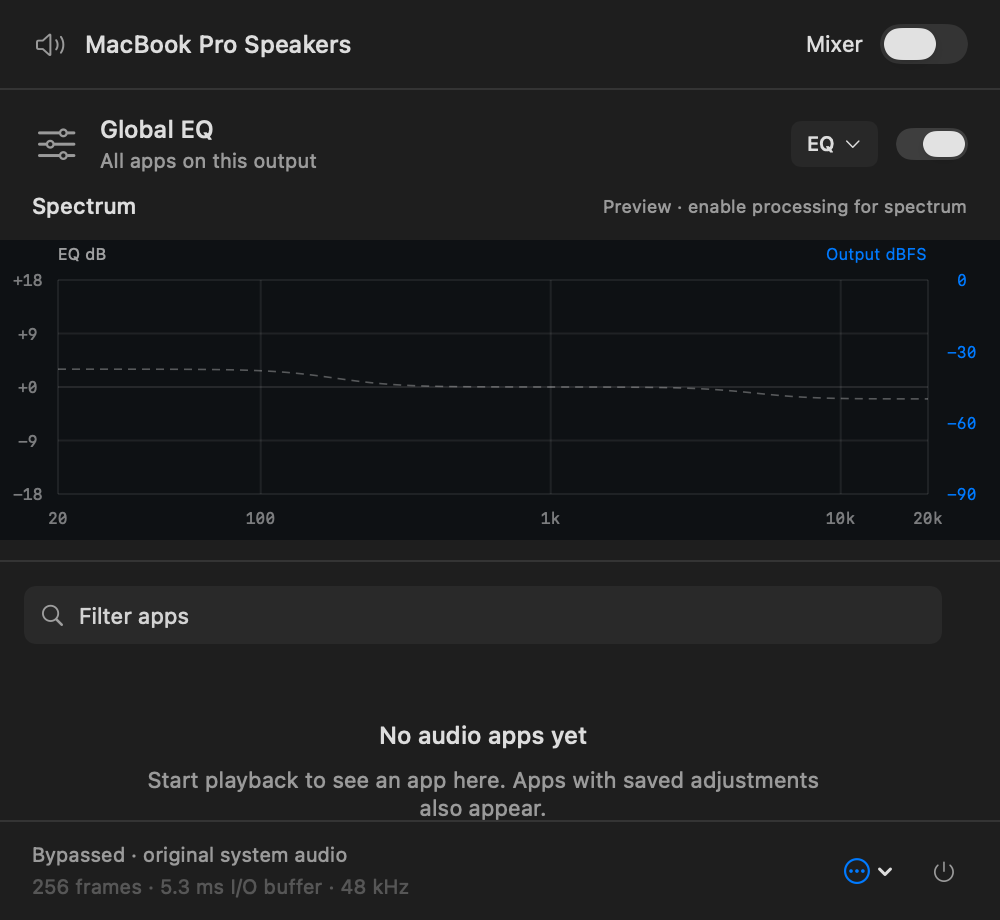
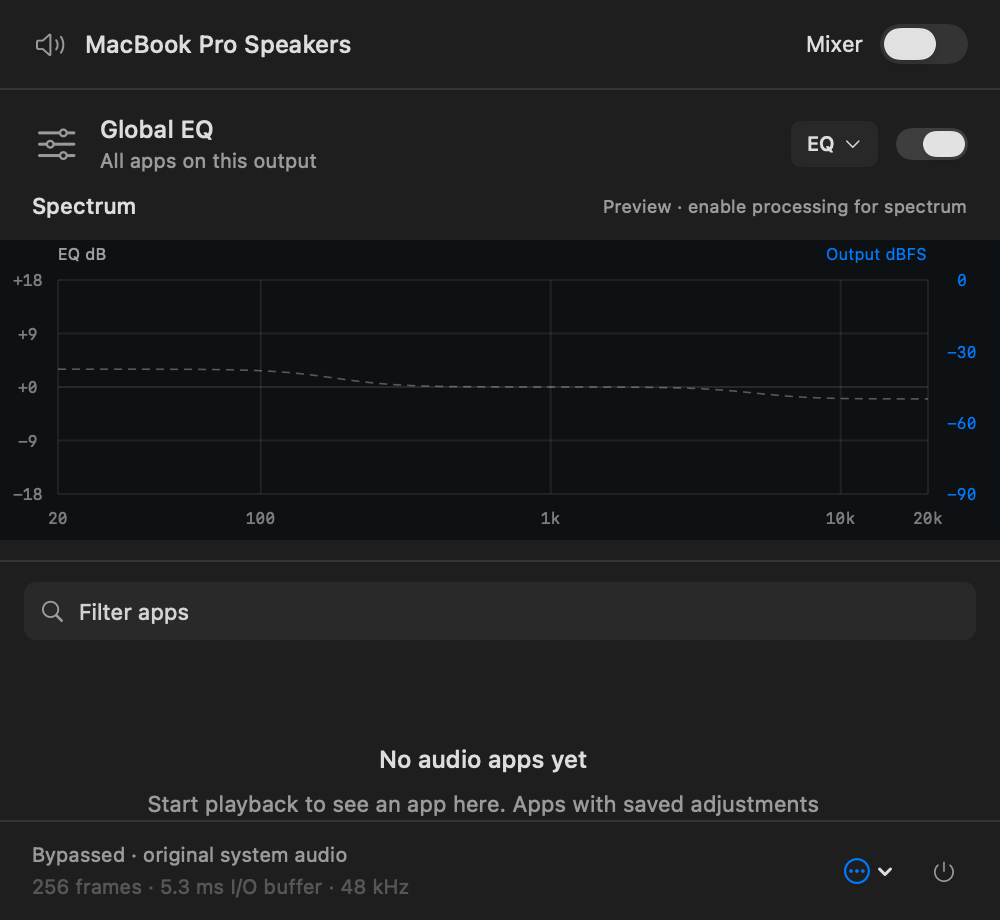
Pin app search and prepare RC.4 with simulated spectrum screenshots

Changed region(s): [[0.155, 0.7913, 0.837, 0.913], [0.031, 0.6391, 0.186, 0.7]]

diff --git a/AppMixer/App/Sources/ScreenshotRenderer.swift b/AppMixer/App/Sources/ScreenshotRenderer.swift
@@ -69,29 +69,63 @@ struct ScreenshotRenderer {
         var musicEQ = MixerSettings()
         musicEQ.volume = 0.65
         model.settings = [zoom.id: zoomEQ, music.id: musicEQ]
-        model.snapshot.active = [zoom.id, music.id]
-        // Explicit illustrative meter levels, not captured audio.
-        for (id, peak) in [(zoom.id, Float(0.08)), (music.id, Float(0.22))] {
-            var level = AudioTelemetry()
-            level.peak = peak
-            model.telemetry.apps[id] = level
+        // Deterministic illustrative spectra: never capture audio or claim these
+        // fixtures are live. Apply the displayed EQ/volume to each sample shape.
+        func simulateSpectra() {
+            var combined = AudioTelemetry()
+            combined.simulated = true
+            combined.spectrum = [Float](repeating: -90, count: 96)
+            model.snapshot.active = Set(model.snapshot.apps.map(\.id))
+            for app in model.snapshot.apps {
+                var value = AudioTelemetry()
+                value.simulated = true
+                let settings = model.value(app.id)
+                for index in 0..<96 {
+                    let hz = 20 * pow(1000, (Double(index) + 0.5) / 96)
+                    func bump(_ center: Double, _ width: Double) -> Double {
+                        exp(-0.5 * pow(log2(hz / center) / width, 2))
+                    }
+                    let shape: Double
+                    if app.id == music.id {
+                        shape = -56 + 27 * bump(85, 0.9) + 20 * bump(900, 1.5) + 12 * bump(6500, 1)
+                    } else if app.id == zoom.id {
+                        shape = -72 + 35 * bump(550, 1.2) + 22 * bump(2400, 0.8)
+                    } else {
+                        shape = -65 + 22 * bump(200, 0.8) + 28 * bump(3300, 1)
+                    }
+                    let ripple = 3 * sin(Double(index) * 1.7) + 2 * cos(Double(index) * 0.63)
+                    let eq =
+                        settings.responseDB(at: hz, sampleRate: 48000)
+                        + model.globalEQ.responseDB(at: hz, sampleRate: 48000)
+                    let db = Float(max(-90, min(0, shape + ripple + eq + 20 * log10(settings.volume))))
+                    value.spectrum.append(db)
+                    combined.spectrum[index] = max(combined.spectrum[index], db)
+                }
+                value.peak = app.id == music.id ? 0.22 : (app.id == zoom.id ? 0.08 : 0.13)
+                combined.peak = max(combined.peak, value.peak)
+                combined.apps[app.id] = value
+            }
+            model.telemetry = combined
         }
+        simulateSpectra()
         host.rootView = MixerView(model: model).environment(\.controlActiveState, .active).id("mixer")
         try capture("mixer", maximum: 720)
         model.snapshot.apps = [zoom]
         model.selectedEQ = zoom.id
-        // Deliberately show the response preview, not fabricated live spectrum.
-        model.enabled = false
+        simulateSpectra()
         host.rootView = MixerView(model: model).environment(\.controlActiveState, .active).id("equalizer")
         try capture("equalizer", maximum: 720)
         model.globalEQ.bands = EQPreset.warm.bands
         model.selectedEQ = MixerModel.globalEQID
+        simulateSpectra()
         host.rootView = MixerView(model: model).environment(\.controlActiveState, .active).id("global-equalizer")
         try capture("global-equalizer", maximum: 720)
         model.snapshot.apps = (0..<15).map {
             AudioApplication(id: "sample-\($0)", name: "Sample app \($0 + 1)", playing: true)
         }
         model.selectedEQ = nil
+        model.enabled = false
+        model.telemetry = AudioTelemetry()
         let longSize = layout()
         guard abs(longSize.height - 720) <= 1 else { throw NSError(domain: "QEQ layout", code: 2) }
         print("long list capped: \(Int(longSize.height)) pt")

diff --git a/AppMixer/App/Sources/ParametricEQView.swift b/AppMixer/App/Sources/ParametricEQView.swift
@@ -44,14 +44,15 @@ struct ParametricEQView: View {
                     Spacer()
                     if processing && !telemetry.spectrum.isEmpty {
                         Circle().fill(Color.accentColor).frame(width: 5, height: 5)
-                        Text(isGlobal ? "App spectra" : "Live output").font(.system(size: 9)).foregroundStyle(
-                            .secondary
-                        )
-                        .help(
-                            isGlobal
-                                ? "Strongest app in each frequency bin; not a measurement of the summed system output."
-                                : "App output after app EQ, Global EQ, volume, and limiting. The curve shows this app's EQ only."
-                        )
+                        Text(telemetry.simulated ? "Simulated spectrum" : (isGlobal ? "App spectra" : "Live output"))
+                            .font(.system(size: 9)).foregroundStyle(
+                                .secondary
+                            )
+                            .help(
+                                isGlobal
+                                    ? "Strongest app in each frequency bin; not a measurement of the summed system output."
+                                    : "App output after app EQ, Global EQ, volume, and limiting. The curve shows this app's EQ only."
+                            )
                         if compact && telemetry.limitingDB > 0.1 {
                             Text(String(format: "Limiting −%.1f dB", telemetry.limitingDB))
                                 .font(.system(size: 9, design: .monospaced)).foregroundStyle(.orange)

diff --git a/AppMixer/App/Sources/MixerView.swift b/AppMixer/App/Sources/MixerView.swift
@@ -46,6 +46,7 @@ struct MixerView: View {
                 }
                 globalSection
                 Divider()
+                searchField.padding(.horizontal, 12).padding(.vertical, 10)
             }.trackHeight("header")
             ScrollView {
                 VStack(spacing: 8) {
@@ -57,7 +58,6 @@ struct MixerView: View {
                         .padding(.horizontal, 4).padding(.vertical, 10)
                         Divider()
                     }
-                    searchField
                     if apps.isEmpty {
                         VStack(spacing: 8) {
                             Text(search.isEmpty ? "No audio apps yet" : "No matching apps").font(

diff --git a/AppMixer/Sources/AppMixerAppSupport/SpectrumAnalyzer.swift b/AppMixer/Sources/AppMixerAppSupport/SpectrumAnalyzer.swift
@@ -7,6 +7,7 @@ public struct AudioTelemetry: Sendable {
     public var peak: Float = 0
     public var limitingDB: Float = 0
     public var apps: [String: AudioTelemetry] = [:]
+    public var simulated = false
     public init() {}
     /// Strongest app in each bin, not a phase-aligned measurement of the final mix.
     static func envelope(_ values: [Self]) -> Self {

diff --git a/docs/DEVELOPMENT.md b/docs/DEVELOPMENT.md
@@ -29,7 +29,7 @@ Permission is first requested when processing or live spectrum needs an app audi
 - Mono/stereo Float32 output devices with a single output stream are supported. Multichannel/multistream devices are rejected explicitly. This version processes the **current system output**; apps explicitly routed to a different output should be set to the system output first.
 - EQ: five configurable bands, 20 Hz–20 kHz (limited to 45% of sample rate), ±18 dB. Bell, low/high shelf, and 12 dB/octave low/high cut filters. Bell/cut Q spans 0.1–10; shelf slope spans 0.1–1. Each band can be bypassed. Boosts raise their selected frequencies without fixed full-band attenuation. Stereo-linked sample-peak protection reduces gain only when output would exceed full scale, then releases over 50 ms; it adds no lookahead or playback buffering. The live “Limiting” indicator shows reduction. Lower app volume when more headroom is needed. This is sample-peak protection, not an oversampled true-peak limiter. Volume is 0–100%.
 - Drag numbered graph handles to change frequency/gain. Click a band, enter exact frequency/gain/Q values, or use the width slider. White is the filter response (EQ dB, before app volume and peak protection); a dashed line indicates a preview while bypassed. The system accent color fills the live processed-output spectrum (−90…0 dBFS). Double-click a numbered handle to restore that band’s defaults.
-- Global EQ spans the popup width and stays above the scrolling search and app controls. Its response line is subdued. Collapsed app rows show live output-peak meters (−60…0 dBFS), after volume, mute, and both EQs. Global bypass releases the taps, so meters show unavailable rather than fabricated activity.
+- Global EQ spans the popup width and stays above the pinned search field and scrolling app controls. Its response line is subdued. Collapsed app rows show live output-peak meters (−60…0 dBFS), after volume, mute, and both EQs. Global bypass releases the taps, so meters show unavailable rather than fabricated activity.
 - The minimum band gain is −18 dB, not silence: it leaves about 13% amplitude in the affected range. A logarithmic spectrum still shows that remaining energy; the controls display this amplitude relationship when cutting.
 - The optional 16,384-sample Hann-window spectrum uses Accelerate off the audio thread at ~15 fps. Atomic snapshots never delay playback. At 48 kHz the analysis window covers about 341 ms of recent sound; this affects visual settling, not playback latency. Frequency bins use interpolated boundaries, and there is no extra peak hold to conceal EQ cuts or mute. Both the EQ-gain (left) and output-dBFS (right) scales are labeled; the frequency axis is logarithmic. Stereo powers are combined without phase cancellation. While the popup is open and the main mixer is enabled, playing apps acquire neutral routes as needed for analysis, even with flat EQ. Closing it releases analysis-only routes. The Global EQ graph overlays up to six app spectra with matching labels; its filled envelope is the strongest app in each frequency bin, not a phase-aligned measurement of the final mixed output. Per-app spectra include both app and global processing. Global bypass always releases all routes.
 - Chrome/Electron helper clients resolve to their outer application’s name, icon, and bundle ID. Legacy helper-key settings migrate to that app; existing parent settings take precedence.
@@ -119,6 +119,6 @@ python3 AppMixer/scripts/screenshots.py --check
 ./AppMixer/scripts/generate_appicon.sh
 ```
 
-The screenshot command renders the real SwiftUI views with labeled fixture settings in an offscreen app window. It never starts the audio engine, reads saved settings, or captures the screen. It also checks empty, populated, app/global EQ, long-list, smaller-screen and removal layouts. The source and image fingerprints in `docs/media/screenshots.json` prevent stale README screenshots from shipping. CI renders from its just-built app using `--skip-build`; normal preparation builds first. Screenshot fixtures are illustrative; the EQ view deliberately shows a response preview rather than fabricated live audio.
+The screenshot command renders the real SwiftUI views with labeled fixture settings in an offscreen app window. It never starts the audio engine, reads saved settings, or captures the screen. It also checks empty, populated, app/global EQ, long-list, smaller-screen and removal layouts. The source and image fingerprints in `docs/media/screenshots.json` prevent stale README screenshots from shipping. CI renders from its just-built app using `--skip-build`; normal preparation builds first. Screenshot fixtures use deterministic simulated spectra, labeled in the interface and README. No live audio is captured; the displayed sample EQ is applied to the fixture shapes.
 
 The icon was created with the built-in image-generation tool. The source asset and final prompt are in `AppMixer/Branding/`. The generator script only creates the standard macOS icon sizes from that source. Internal module names and `local.AppMixer` bundle identity are retained so existing settings remain available.

diff --git a/AppMixer/ReleaseNotes/0.1.0-rc.4.md b/AppMixer/ReleaseNotes/0.1.0-rc.4.md
@@ -1,0 +1,14 @@
+**QEQ — Quick EQ. Per-app mixer and equalizer for macOS.**
+
+- Global EQ shares each app's realtime callback, with independent bypass and no added playback buffer.
+- A full-width global spectrum stays visible above a pinned search field. App rows scroll below it.
+- Layered app spectra, collapsed-row output meters, and prominent quick-mute buttons show which apps are making sound.
+- Opening the panel starts analysis even with flat EQ. Global bypass releases all audio taps.
+- Improved bass-frequency resolution and removed spectrum peak hold that concealed cuts. EQ gain and output-level axes are labeled separately.
+- Eleven presets, system accent color, double-click band reset, a subtler global response line, and a power-icon Quit button.
+- Gain controls explain that −18 dB leaves about 13% amplitude; the clipping-protection indicator appears only while limiting.
+- README screenshots now include clearly labeled simulated spectra. Release preparation refreshes screenshots; CI checks their source fingerprints and the release workflow renders and attaches a screenshot ZIP.
+
+macOS 14.4+, Apple Silicon and Intel. App and DMG are Developer ID signed, notarized, and stapled.
+
+Quit QEQ before replacing the app. Saved app/global EQ settings are retained; each launch starts bypassed. Enable Mixer for live analysis and processing. The 16,384-sample spectrum window covers about 341 ms at 48 kHz; it affects visual settling only, not playback buffering. The global spectrum overlays app spectra, not a phase-aligned measurement of the final system mix. Use the footer menu's Copy diagnostics if a route fails.

diff --git a/README.md b/README.md
@@ -11,7 +11,7 @@
   <img src="docs/media/mixer.png" alt="Per-app volume and bypass controls" width="360">
   <img src="docs/media/global-equalizer.png" alt="Global five-band parametric EQ" width="360">
 </p>
-<p align="center"><sub>Native interface shown with sample app settings and levels.</sub></p>
+<p align="center"><sub>Native interface with simulated spectra and sample settings; no captured audio.</sub></p>
 
 ## Features
 

diff --git a/CHANGELOG.md b/CHANGELOG.md
@@ -1,6 +1,8 @@
 # Changelog
 
-## In development
+## 0.1.0-rc.4 — 2026-11-02
+
+- Pin search above the app list and refresh screenshots with explicitly simulated spectra.
 
 - Pin a full-width Global EQ above search and app controls, soften its response line, and add live output meters to collapsed apps.
 - Clarify that a −18 dB band cut leaves about 13% amplitude instead of muting it.
